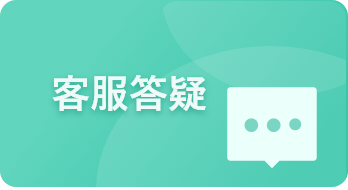
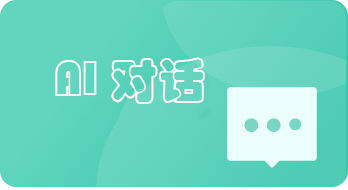
AI对话界面简单优化
临时提交

Changed region(s): [[0.1437, 0.2895, 0.6034, 0.6053]]

diff --git a/miniprogram/pages/notification/notification.js b/miniprogram/pages/notification/notification.js
@@ -60,6 +60,7 @@ Page({
     roleCur: 0,
 
     ttsStart: false,
+    isSpeaking: false,
     ttsText: "",
     tts: {},
 
@@ -367,6 +368,9 @@ Page({
           })
           ctx.onEnded((res) => {
             console.log("play done...")
+            this.setData({
+              isSpeaking: false
+            })
             fs.unlink({
               filePath: this.data.saveFile,
               success: (res) => {
@@ -472,15 +476,22 @@ Page({
   speach(e) {
     let content = ''
     if (this.data.autoReadingAloud == true) {
-      // console.log(e);
       content = e
-      // console.log(e);
-      // console.log(lto);
     } else {
       if (e.currentTarget.dataset.content !== undefined && this.data.autoReadingAloud === false) {
         content = e.currentTarget.dataset.content;
         console.log(content)
       }
+    }
+    this.onTtsSpeach(content, 'autoSpeach')
+  },
+
+  //点击朗读
+  clickSpeach(e) {
+    let content = ''
+    if (e.currentTarget.dataset.content !== undefined) {
+      content = e.currentTarget.dataset.content;
+      console.log(content)
     }
     this.onTtsSpeach(content, 'autoSpeach')
   },
@@ -553,7 +564,10 @@ Page({
         })
         return
       } else {
-        this.data.ttsStart = true
+        // this.data.ttsStart = true
+        this.setData({
+          ttsStart: true,
+        })
       }
       console.log("try to synthesis:" + content)
       let save = formatTime(new Date()) + ".wav"
@@ -578,7 +592,11 @@ Page({
           try {
             await this.data.tts.start(param)
             console.log("tts done")
-            this.data.ttsStart = false
+            // this.data.ttsStart = false
+            this.setData({
+              ttsStart: false,
+              isSpeaking: true
+            })
           } catch (e) {
             console.log("tts start error:" + e)
           }
@@ -824,7 +842,8 @@ Page({
         centendata: this.data.centendata
       })
 
-      let url = 'https://test.uavserve.online/get_bot_answer?msg=' + message
+      let url = 'https://us.servasoft.com:8443/get_bot_answer2?msg=' + message
+      // let url = 'http://test.uavserve.online/get_bot_answer2?msg=' + message
       wx.request({
         url: url,
         method: 'GET',
@@ -847,7 +866,7 @@ Page({
       })
     }
 
-
+    message = ''
   },
 
 
@@ -910,6 +929,27 @@ Page({
       // res[1].scrollTop // 显示区域的竖直滚动位置
     })
   },
+
+  viewCopyTextClick: function (e) {
+    let content = ''
+    if (e.currentTarget.dataset.content !== undefined) {
+      content = e.currentTarget.dataset.content;
+      console.log(content)
+    }
+    wx.setClipboardData({
+      data: content,
+      success: function (res) {
+        wx.getClipboardData({
+          success: function (res) {
+            wx.showToast({
+              title: '复制成功'
+            })
+          }
+        })
+      }
+    })
+  },
+
 
   toSysMessList() {
     wx.navigateTo({
@@ -1018,7 +1058,7 @@ Page({
           title: '提示',
           content: '听不太清，请靠近麦克风重新说一遍~',
           showCancel: false,
-          success: function (res) { }
+          success: function (res) {}
         })
         return;
       }

diff --git a/miniprogram/pages/index/index.js b/miniprogram/pages/index/index.js
@@ -314,14 +314,23 @@ Page({
 
   toCreateMessForm(e) {
     console.log(e.currentTarget.dataset.type)
-    const type = e.currentTarget.dataset.type || 'course'
-    wx.navigateTo({
-      //这里传值
-      url: '/pages/courseMessForm/index?type=' + type,
-
-      // url: '/pages/mysel/admin/admin',
-      // url: '/pages/AddEngClassContent/AddEngClassContent',
-    })
+    let isVip = wx.getStorageSync('isVip');
+    let UserQuesRecordArr = wx.getStorageSync('UserQuesRecordArr');
+    if (!isVip && UserQuesRecordArr.length >= 12) {
+      wx.showModal({
+        title: '提示',
+        content: '由于您不是VIP，暂无权限创建课程，请申请成为VIP后重试',
+        showCancel: false
+      })
+    } else {
+      const type = e.currentTarget.dataset.type || 'course'
+      wx.navigateTo({
+        //这里传值
+        url: '/pages/courseMessForm/index?type=' + type,
+        // url: '/pages/mysel/admin/admin',
+        // url: '/pages/AddEngClassContent/AddEngClassContent',
+      })
+    }
   },
   toHelper() {
     let isVip = wx.getStorageSync('isVip');

diff --git a/miniprogram/app.js b/miniprogram/app.js
@@ -21,17 +21,6 @@ App({
     appstyleColor: '#0D7DA1',
     parameter: null,
 
-    //AKID和AKKEY不能上传到git否则会有泄露风险
-
- 
-
-
-
-
-
-    CEAPPKEY: 'vZGa4IgAxYBX3TUQ',
-    JPAPPKEY: 'r4dw1Se1lf9NFYvl',
-    URL: "wss://nls-gateway.cn-shanghai.aliyuncs.com/ws/v1",
 
     CurrentCourseObj: {}, // 当前选择的课程对象
     CurrentChapter: {}// 当前选择的章节对象

diff --git a/miniprogram/pages/door/door.js b/miniprogram/pages/door/door.js
@@ -35,12 +35,12 @@ Page({
     // if (islogin != true) {
     //   wx.setStorageSync("islogin", false);
     // }
-    this.data.showBtn = false
-    setTimeout(() => {
-      this.setData({
-        showBtn:true
-      })
-    }, 3000);
+    // this.data.showBtn = false
+    // setTimeout(() => {
+    //   this.setData({
+    //     showBtn:true
+    //   })
+    // }, 3000);
   },
 
   /**
